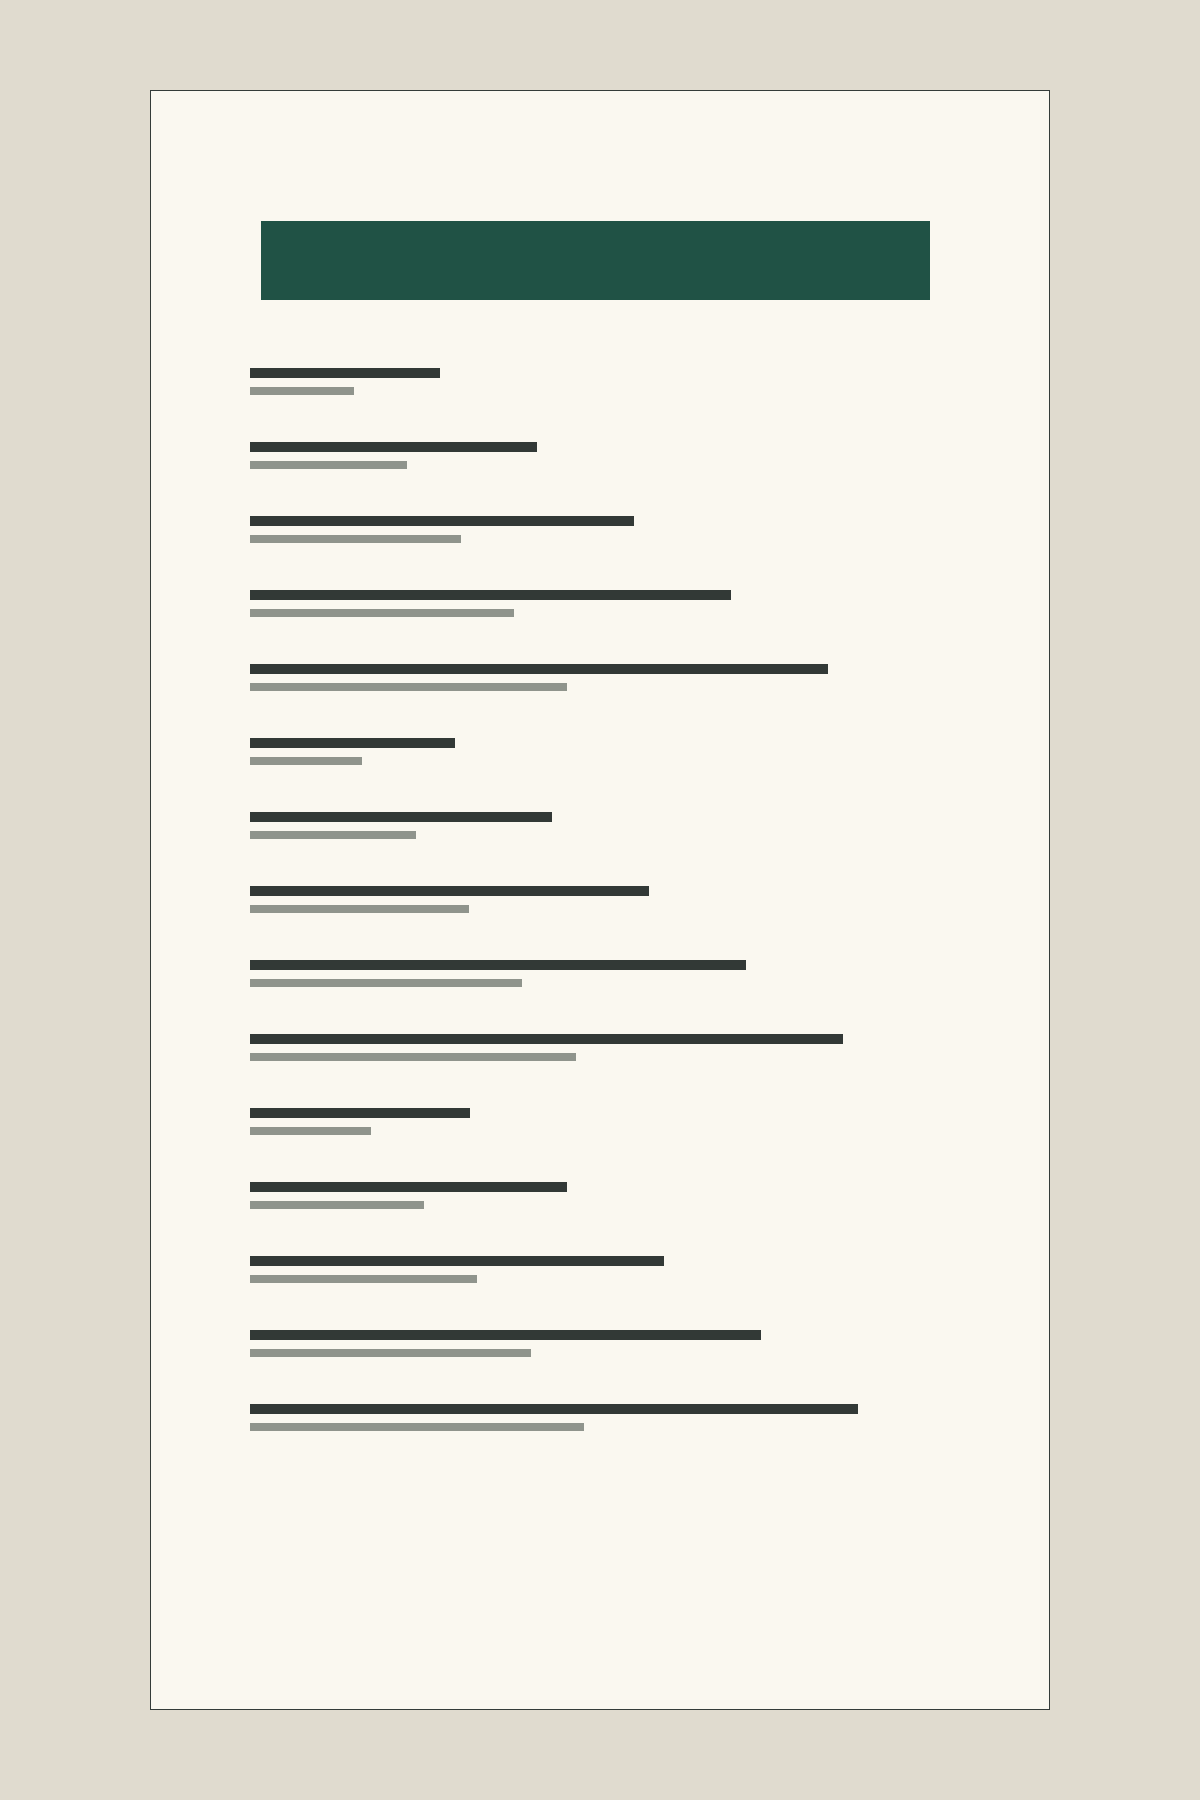
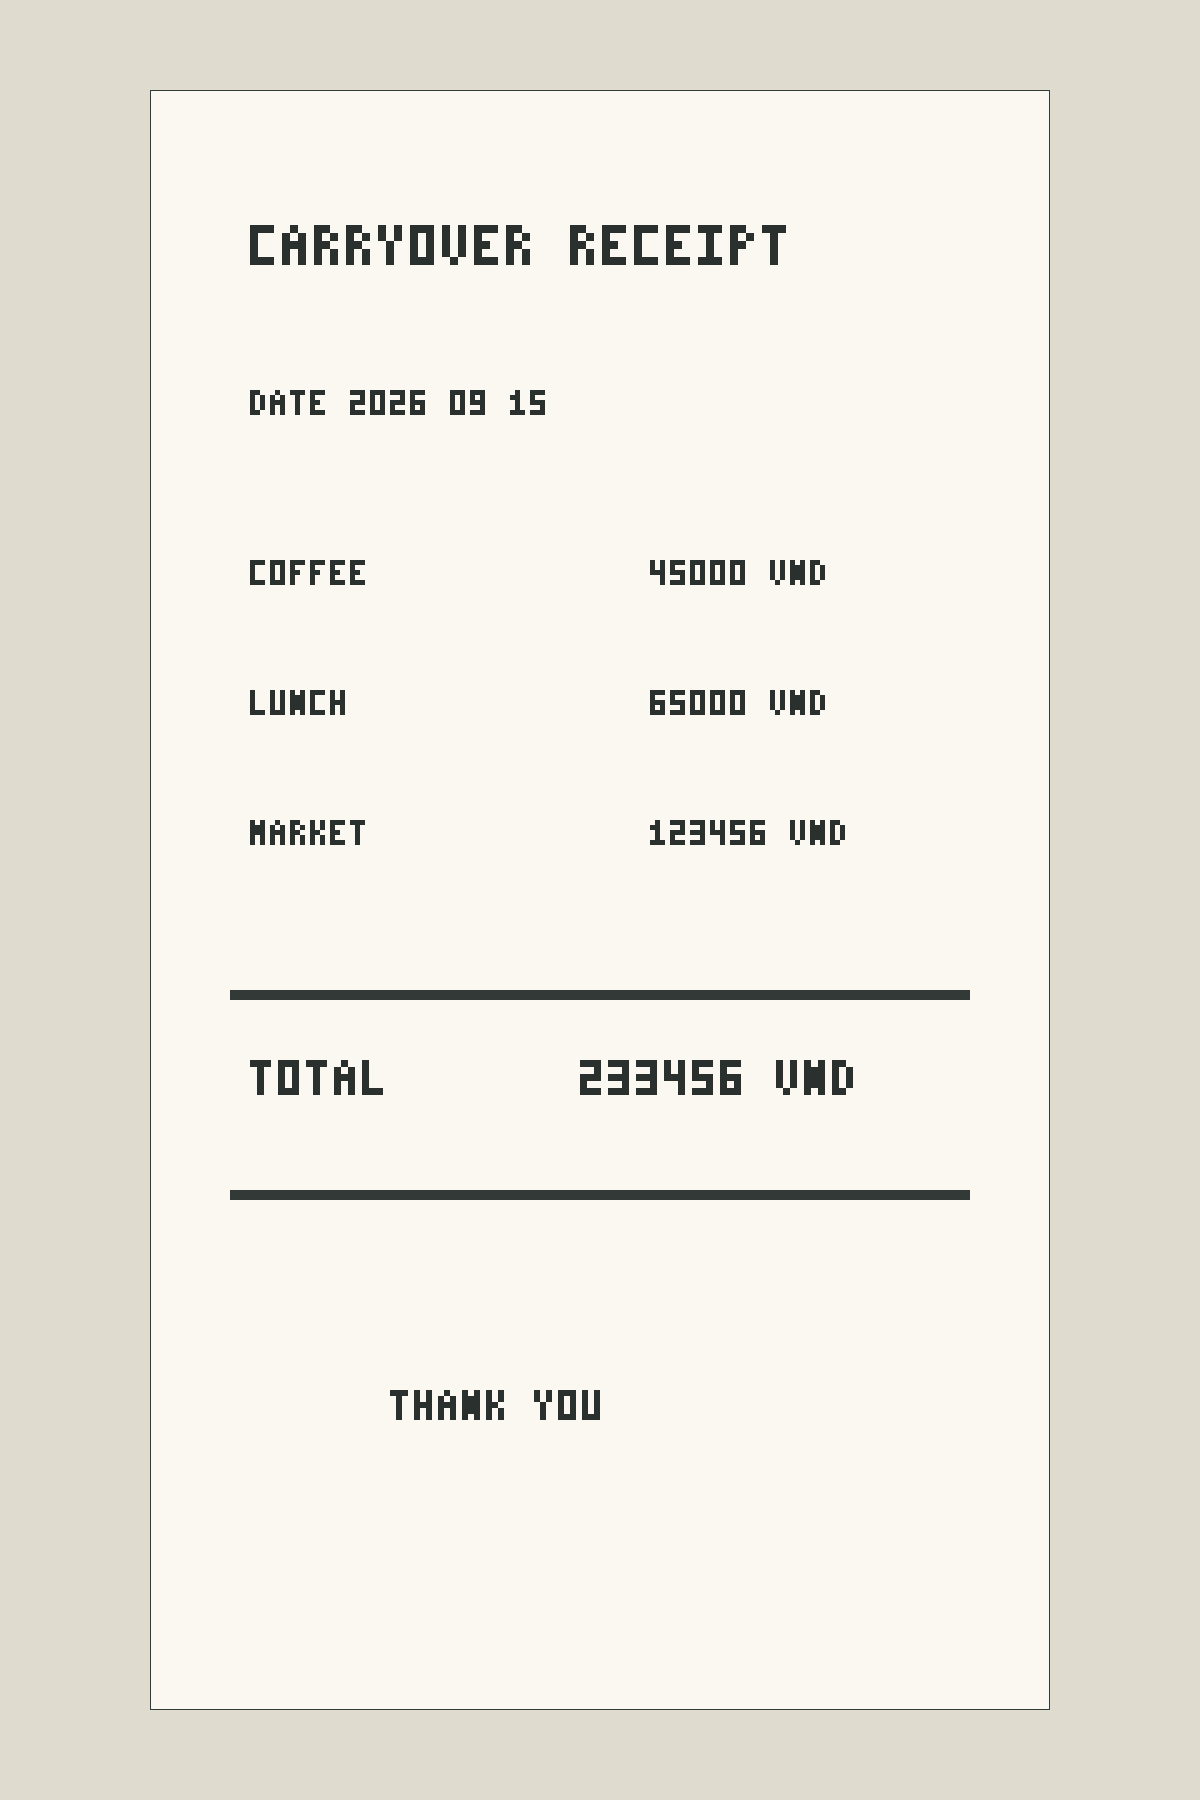
test(capture): add readable receipt fixture

Changed region(s): [[0.185, 0.1244, 0.8017, 0.8089], [0.555, 0.4356, 0.7092, 0.4667]]

diff --git a/src/ui/diagnostics/PhotoProbeScreen.tsx b/src/ui/diagnostics/PhotoProbeScreen.tsx
@@ -91,7 +91,9 @@ export function PhotoProbeScreen<TFixture extends PhotoProbeFixture>({
   const [faultBusy, setFaultBusy] = useState(false);
   const controllerRef = useRef<AbortController | undefined>(undefined);
   const preparedRef = useRef<PreparedPhoto | null>(null);
+  const accessRef = useRef(access);
   const mountedRef = useRef(true);
+  accessRef.current = access;
 
   const loadState = useCallback(async () => {
     setStateError(null);
@@ -106,18 +108,21 @@ export function PhotoProbeScreen<TFixture extends PhotoProbeFixture>({
   }, [readSavedKeys]);
 
   useEffect(() => {
-    mountedRef.current = true;
     void loadState();
+  }, [loadState]);
+
+  useEffect(() => {
+    mountedRef.current = true;
     return () => {
       mountedRef.current = false;
       controllerRef.current?.abort();
       const prepared = preparedRef.current;
       preparedRef.current = null;
       if (prepared !== null) {
-        void access.discardPreparedPhoto(prepared);
+        void accessRef.current.discardPreparedPhoto(prepared);
       }
     };
-  }, [access, loadState]);
+  }, []);
 
   const selectedFixture = fixtures.find((fixture) => fixture.id === selectedId) ?? fixtures[0];
   const savedPhotoKey = savedKeys[selectedFixture.id] ?? null;

diff --git a/assets/photo-fixtures/README.md b/assets/photo-fixtures/README.md
@@ -1,7 +1,9 @@
 # Capture probe fixtures
 
 These deterministic fixtures contain no personal data. The five PNGs are
-generated by the photo fixture generator. The JPEG carries EXIF orientation 6,
+generated by the photo fixture generator. The receipt includes readable item
+names and VND amounts so compression can be judged against real characters.
+The JPEG carries EXIF orientation 6,
 and the HEIC is a small HEIF test image used to exercise the native decoder.
 
 The probe uses these files only for storage and encoding checks. It does not
